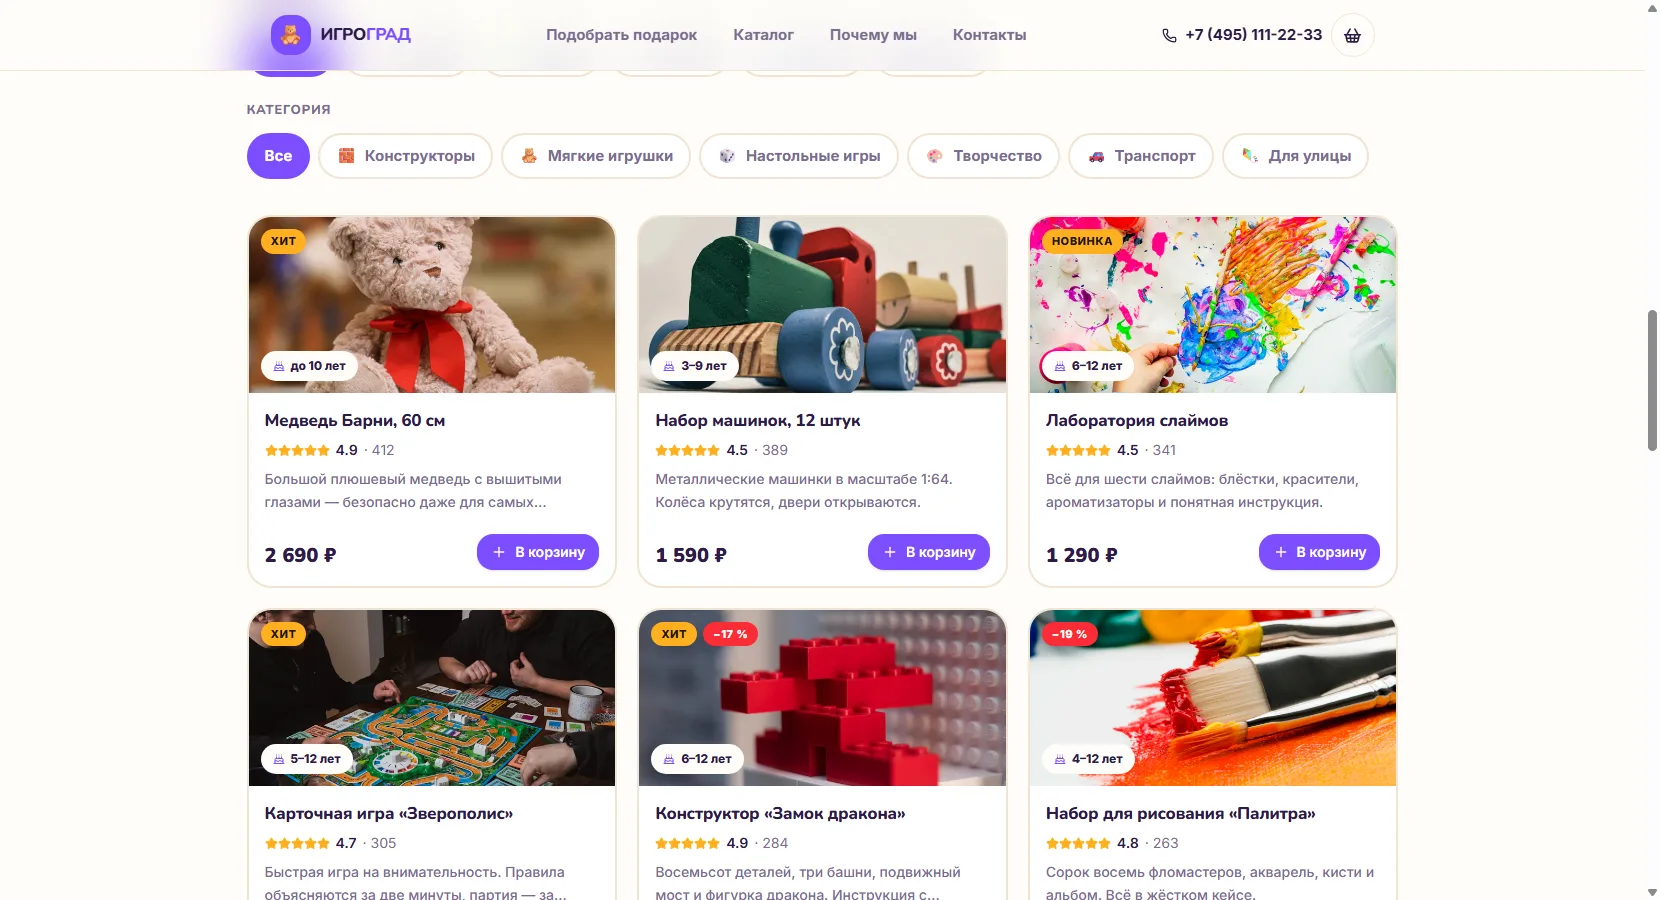
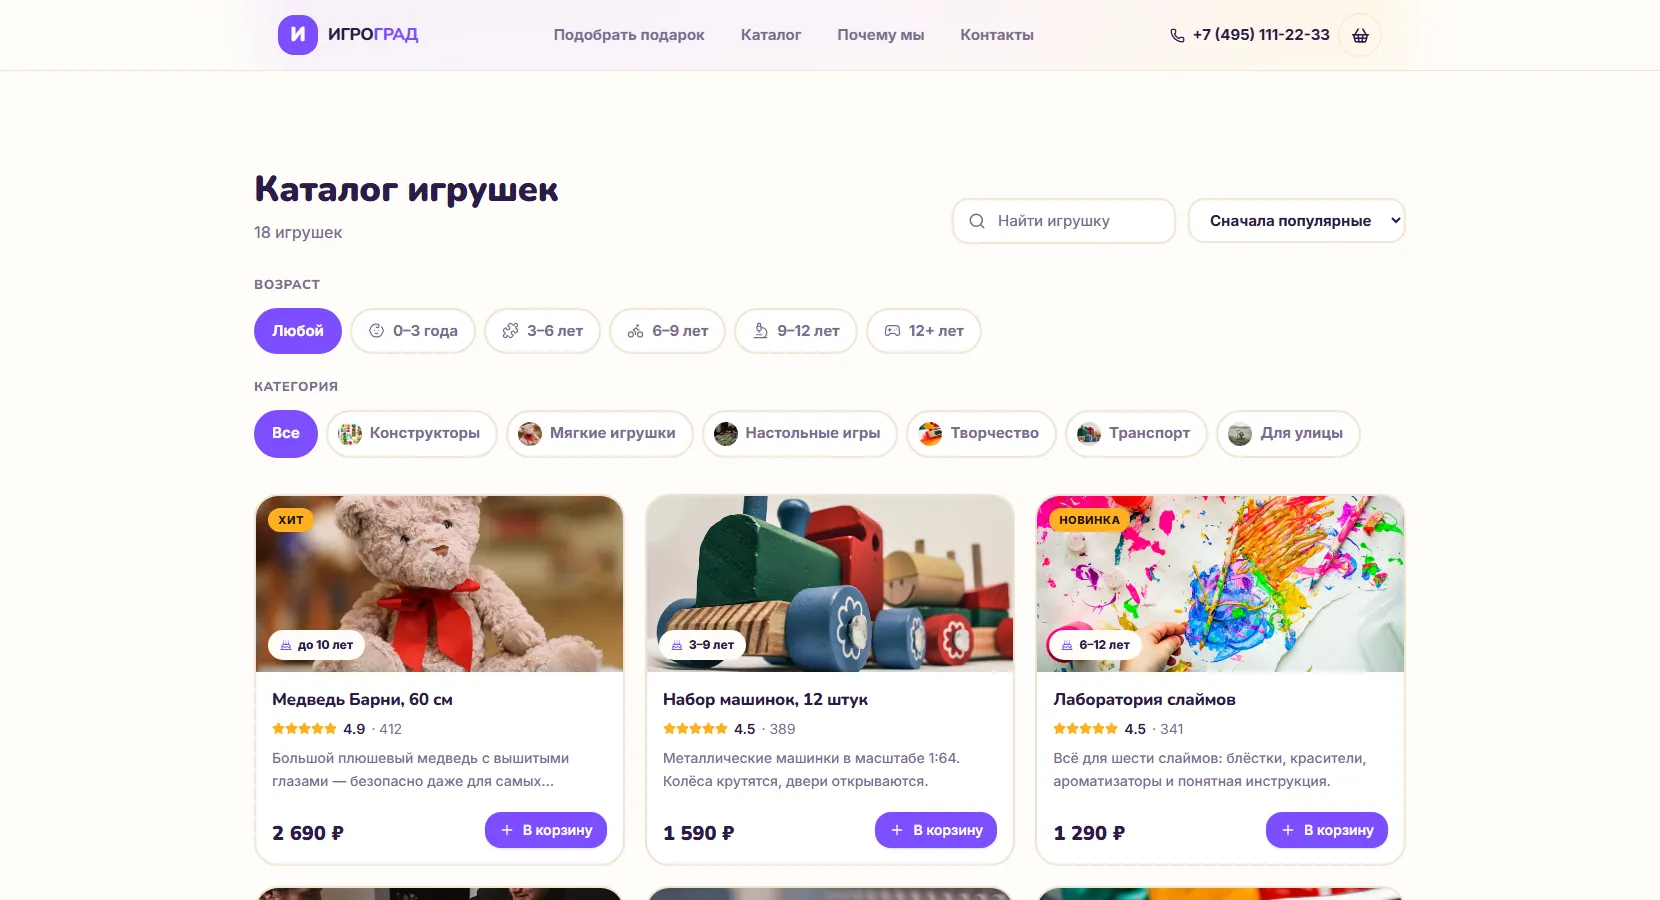
feat: скрипт снимков снимает и скриншоты шаблонов
build-og-images переименован в build-snapshots: кроме превью ссылок он
теперь снимает скриншоты шаблонов для карточек витрины и 3D-сцены —
прокручивает каждый шаблон к меню или каталогу и сохраняет WebP 1660×900.
Старые скриншоты устарели: на них были эмодзи и прежнее фото повербанка.

У колонки Helix Sound Cube был виден логотип JBL — заменена на кубическую
колонку без логотипа.

diff --git a/vite.config.ts b/vite.config.ts
@@ -54,7 +54,7 @@ function readMeta(html: string): Pick<PageMeta, 'title' | 'description'> {
 /**
  * Прописывает странице заголовок, описание и метатеги Open Graph — по ним VK,
  * Telegram, WhatsApp и другие мессенджеры рисуют карточку ссылки.
- * Картинки лежат в public/og, снимает их scripts/build-og-images.mjs.
+ * Картинки лежат в public/og, снимает их scripts/build-snapshots.mjs.
  */
 function withPageMeta(html: string, page: PageMeta): string {
   const url = siteUrl + page.path
@@ -77,7 +77,7 @@ function withPageMeta(html: string, page: PageMeta): string {
       '<meta name="twitter:card" content="summary_large_image" />',
     )
   } else {
-    console.warn(`[превью] нет картинки для «${page.title}» — запустите scripts/build-og-images.mjs`)
+    console.warn(`[превью] нет картинки для «${page.title}» — запустите scripts/build-snapshots.mjs`)
   }
 
   return html

diff --git a/public/photos/CREDITS.md b/public/photos/CREDITS.md
@@ -15,7 +15,7 @@
 | `ac-nord-charger.webp` | [Andrey Matveev](https://unsplash.com/@zelebb) |
 | `ac-vektor-bank.webp` | [Markus Winkler](https://unsplash.com/@markuswinkler) |
 | `au-aurum-over.webp` | [Tomasz Gawłowski](https://unsplash.com/@gawlowski) |
-| `au-helix-speaker.webp` | [Nejc Soklič](https://unsplash.com/@nejc_soklic) |
+| `au-helix-speaker.webp` | [Nicolas J Leclercq](https://unsplash.com/@nicolasjleclercq) |
 | `au-nord-buds.webp` | [C D-X](https://unsplash.com/@cdx2) |
 | `baked-crab.webp` | [Mahmoud Fawzy](https://unsplash.com/@mahmoud_fawzy100) |
 | `baked-eel.webp` | [Mahmoud Fawzy](https://unsplash.com/@mahmoud_fawzy100) |
